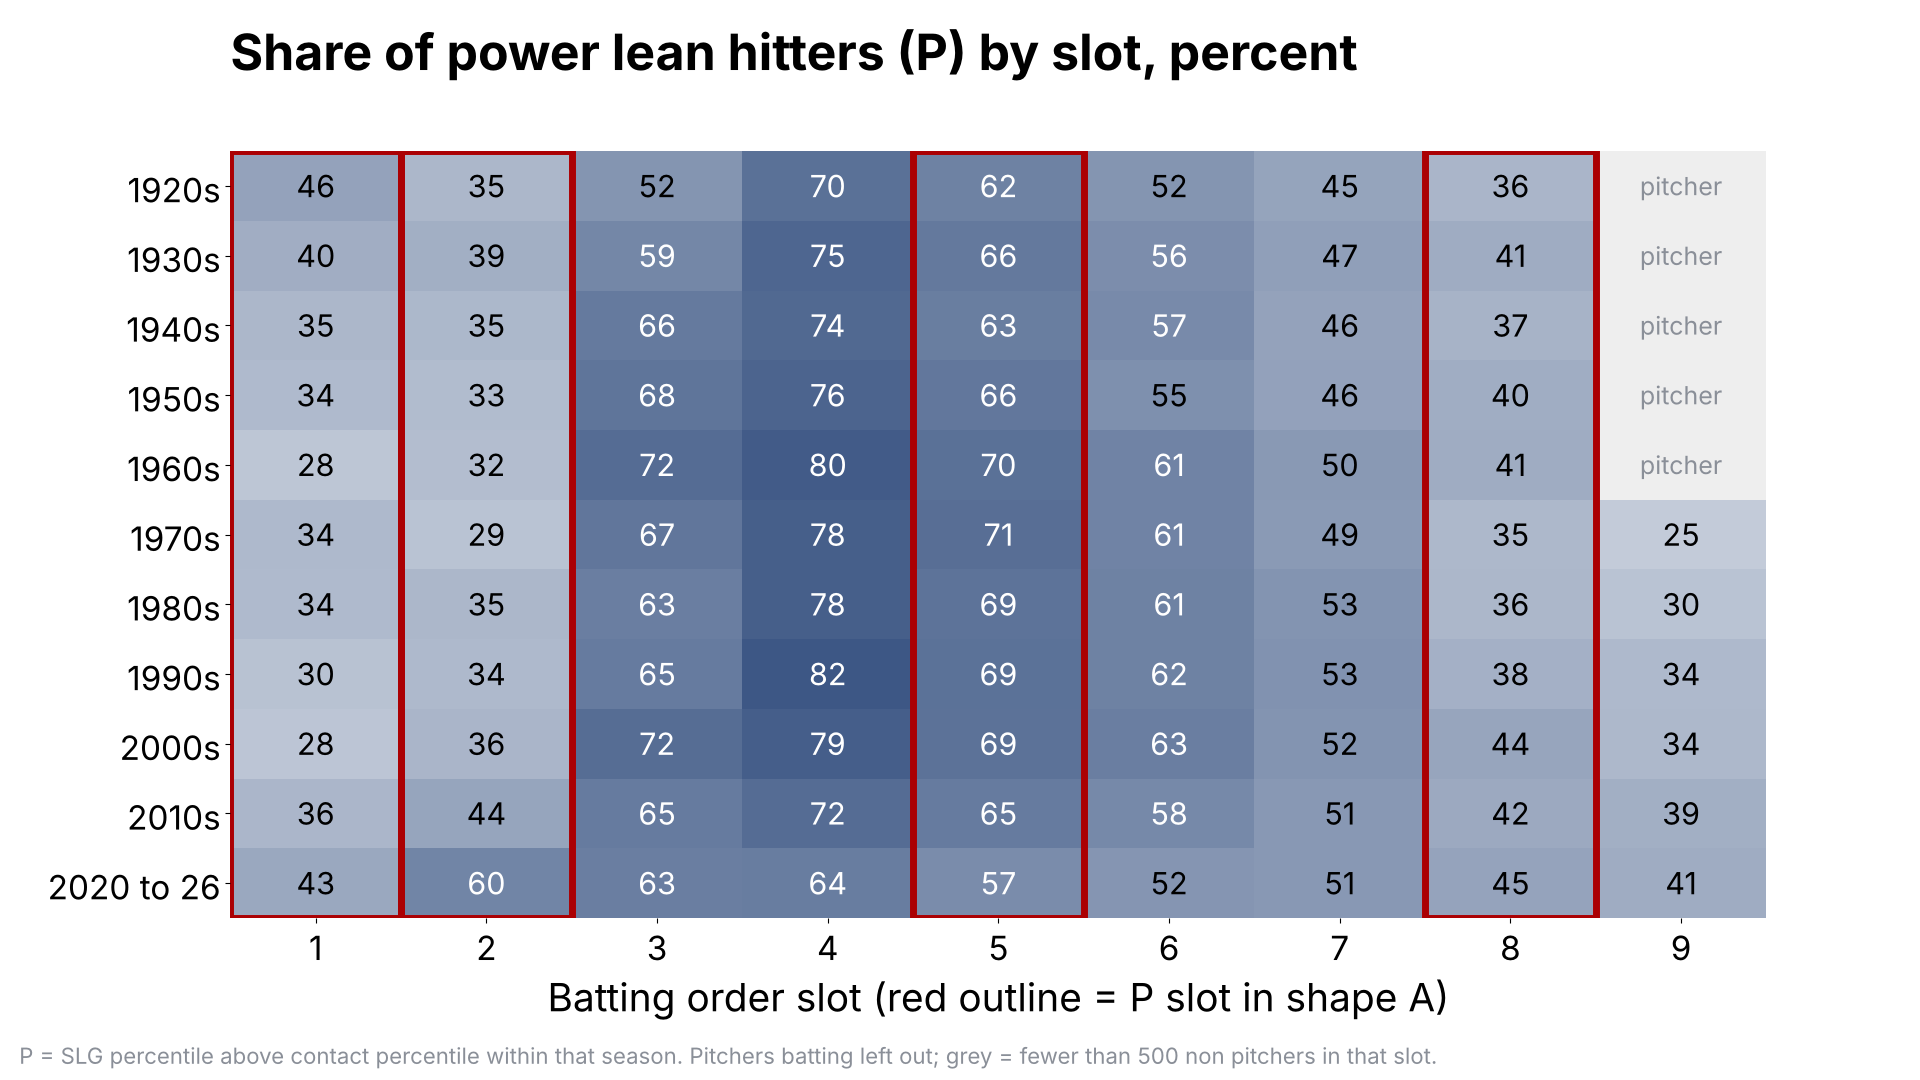
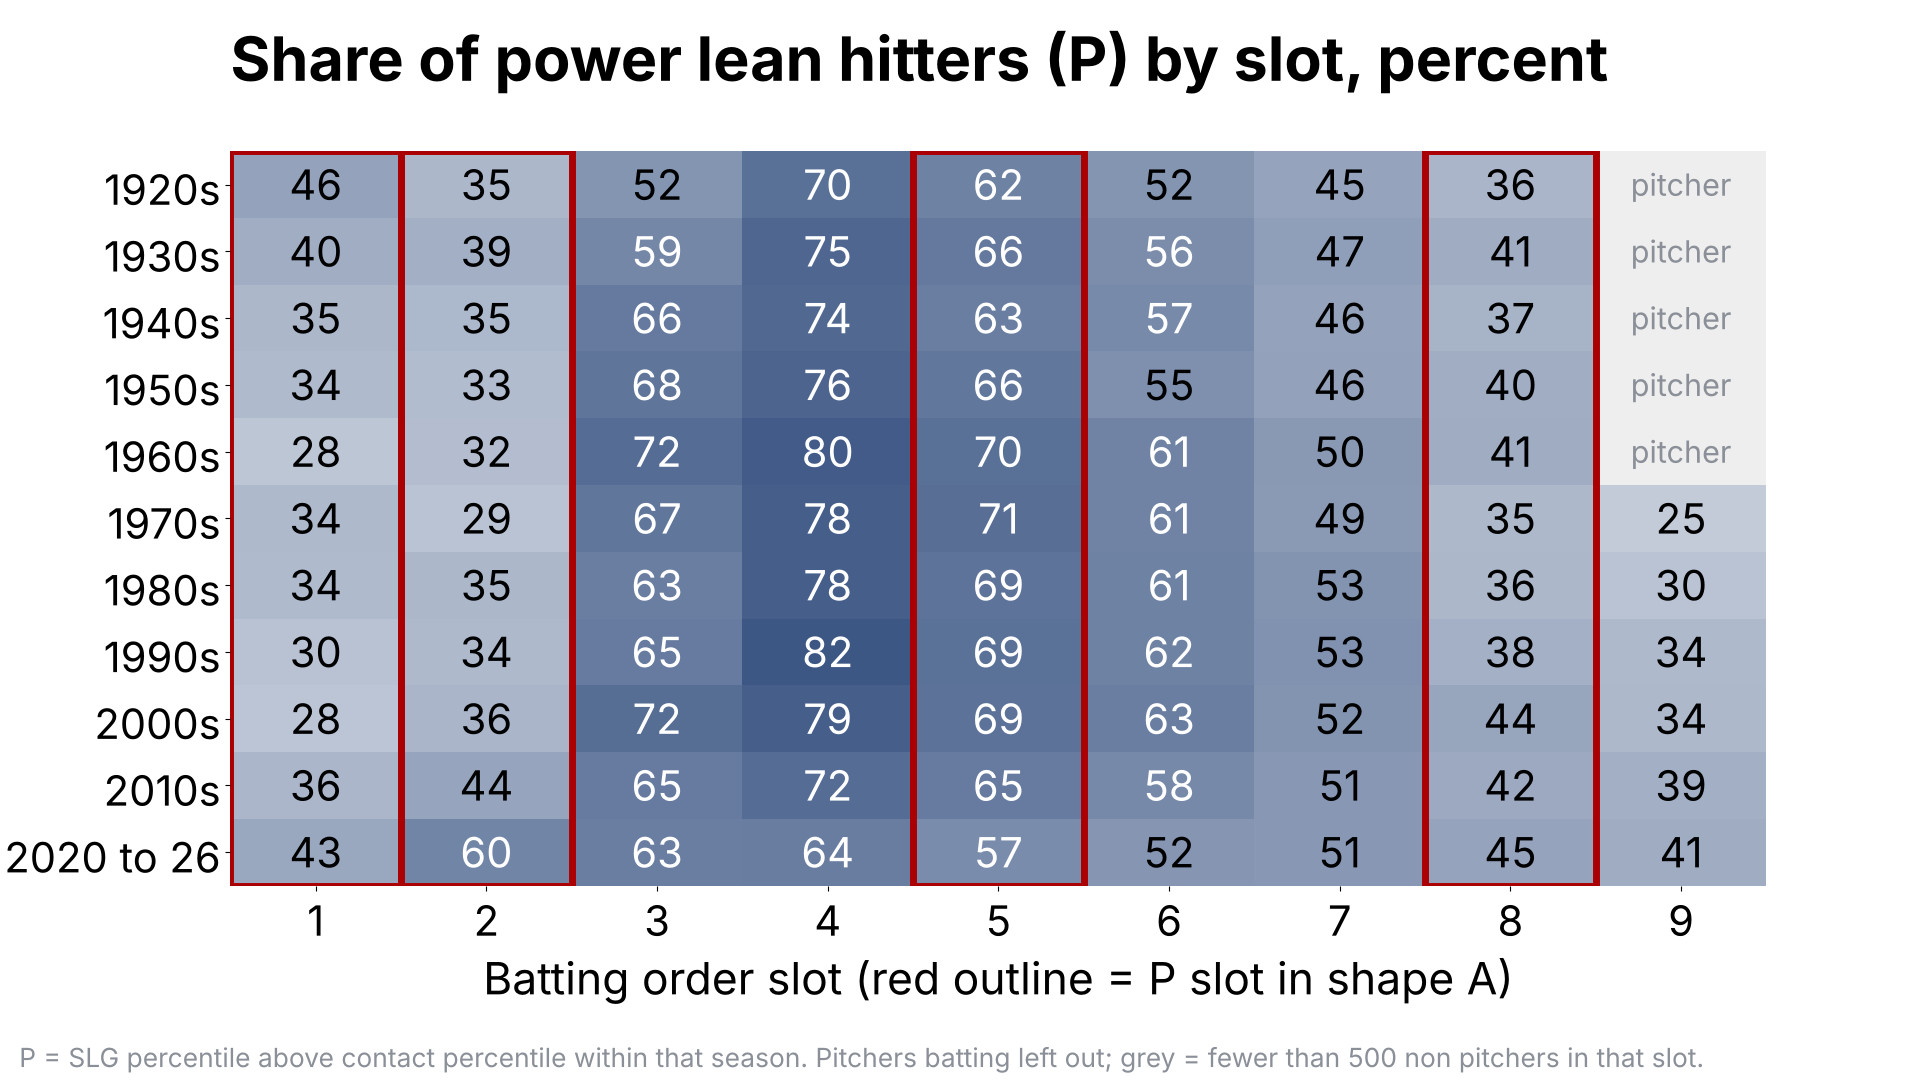
Finalize charts for phone readability, add rank table, checklist and reproducibility results
Claude-Session: https://claude.ai/code/session_01MoaZPH74CYULwaaTuVzYnt

diff --git a/Nationals/Lineup Study/scripts/09_report.py b/Nationals/Lineup Study/scripts/09_report.py
@@ -25,8 +25,8 @@ SHAPES = {"A": "PPCCPCCPC", "B": "PCPCPCCPC", "C": "CPCPCCPCP"}
 ERAS = ["Pre DH 1926 to 1972", "AL DH 1973 to 2021", "NL non DH 1973 to 2021", "Universal DH 2022 to 2026"]
 RECALC = Path("/root/.claude/skills/synced/ad1eab3c-92fc-4b58-a820-0eb12a50d243_a877aaed-fea2-4a65-ae0c-016ae19c1431/xlsx/scripts/recalc.py")
 
-plt.rcParams.update({"font.size": 24, "axes.titlesize": 34, "axes.labelsize": 28, "xtick.labelsize": 24,
-                     "ytick.labelsize": 24, "legend.fontsize": 22, "axes.spines.top": False, "axes.spines.right": False,
+plt.rcParams.update({"font.size": 30, "axes.titlesize": 40, "axes.labelsize": 32, "xtick.labelsize": 30,
+                     "ytick.labelsize": 30, "legend.fontsize": 28, "axes.spines.top": False, "axes.spines.right": False,
                      "figure.facecolor": "white", "axes.facecolor": "white", "savefig.facecolor": "white"})
 
 
@@ -46,25 +46,25 @@ def fig():
 
 
 def foot(f, text):
-    f.text(0.01, 0.015, text, fontsize=16, color=GREY)
+    f.text(0.01, 0.012, text, fontsize=19, color=GREY)
 
 
 def chart_a(b):
     f = fig()
-    ax = f.add_axes([0.09, 0.14, 0.62, 0.72])
+    ax = f.add_axes([0.09, 0.18, 0.56, 0.68])
     order = ["0 to 1", "2", "3", "4", "5+"]
     styles = [(ERAS[0], NAVY, "o", "-"), (ERAS[1], "#3F6DB5", "s", "-"), (ERAS[2], "#7FA3D9", "^", "-"),
               (ERAS[3], GREY, "D", "-"), ("2026", RED, "o", "-")]
     for g, c, m, ls in styles:
         x = b[b.group == g].set_index("bucket").reindex(order)
         lw = 6 if g == "2026" else 4
-        ax.plot(range(5), x.rot, color=c, marker=m, ms=16, lw=lw, ls=ls, label=g)
+        ax.plot(range(5), x.rot, color=c, marker=m, ms=16, lw=lw, ls=ls, label=g.replace("non DH", "no DH"))
     ax.axhline(0, color="black", lw=1.5)
     ax.set_xticks(range(5), ["0 to 1", "2", "3", "4", "5 or more"])
     ax.set_xlabel("Slots that differ from shape A (P P C C P C C P C)")
     ax.set_ylabel("Runs over talent per game")
-    ax.legend(loc="center left", bbox_to_anchor=(1.02, 0.5), frameon=False)
-    f.suptitle("Lineups closest to shape A scored more only in 2026", x=0.09, ha="left", fontsize=36, fontweight="bold")
+    ax.legend(loc="center left", bbox_to_anchor=(1.02, 0.5), frameon=False, fontsize=26)
+    f.suptitle("Lineups closest to shape A scored more only in 2026", x=0.09, ha="left", fontsize=44, fontweight="bold")
     foot(f, "Runs over talent = actual runs minus a within season model of runs on lineup talent, opposing starter, opponent runs allowed, home and park.")
     f.savefig(OUT / "chart_a_runs_over_talent_by_distance.png")
     plt.close(f)
@@ -74,7 +74,7 @@ def chart_b(o, s26):
     d = o[(o.test == "oos_decade") & (o["shape"] == "A")].copy()
     comb = o[(o.test == "oos_pooled") & (o["shape"] == "A")].iloc[0]
     f = fig()
-    ax = f.add_axes([0.09, 0.17, 0.88, 0.69])
+    ax = f.add_axes([0.11, 0.17, 0.86, 0.69])
     x = np.arange(len(d))
     v = -d.slope * 162
     se162 = d.se * 162
@@ -90,11 +90,12 @@ def chart_b(o, s26):
     labels = [g.replace("2020s", "2020\nto 2025") for g in d.group] + ["2026"]
     ax.set_xticks(list(x) + [xr], labels)
     ax.set_ylim(-12, 28)
-    ax.set_ylabel("Runs gained per 162 games\nper slot closer to A")
-    ax.text(xr - 0.25, v26, "the season\nA was\npicked in", color=RED, ha="right", va="center", fontsize=22)
-    ax.text(-0.3, 22, f"1926 to 2025 pooled: {abs(comb.slope * 162):.2f} runs per 162 per slot (shaded band: 95% interval)", color=NAVY, fontsize=22)
-    f.suptitle("Out of sample, shape A is worth nothing in every decade", x=0.09, ha="left", fontsize=36, fontweight="bold")
-    foot(f, "Above zero = lineups closer to shape A scored more than talent predicts. Thick bars: plus or minus 1 SE; thin bars: 95% interval. SE clustered by team season.")
+    ax.set_ylabel("Runs per 162, per slot closer to A")
+    ax.tick_params(axis="x", labelsize=26)
+    ax.text(xr - 0.25, v26, "the season\nA was\npicked in", color=RED, ha="right", va="center", fontsize=28)
+    ax.text(-0.3, 22, f"1926 to 2025 pooled: {abs(comb.slope * 162):.2f} runs per 162 per slot", color=NAVY, fontsize=28)
+    f.suptitle("Out of sample, shape A is worth nothing", x=0.11, ha="left", fontsize=44, fontweight="bold")
+    foot(f, "Above zero = closer to A scored more than talent predicts. Thick bars: 1 SE. Thin bars and band: 95% interval, clustered by team season.")
     f.savefig(OUT / "chart_b_shapeA_slope_by_decade.png")
     plt.close(f)
 
@@ -104,14 +105,14 @@ def chart_c(tr):
     tr.loc[tr.lineups * (1 - tr.x_share) < 500, "p_share"] = np.nan
     p = tr.pivot(index="decade", columns="slot", values="p_share") * 100
     f = fig()
-    ax = f.add_axes([0.12, 0.15, 0.80, 0.71])
+    ax = f.add_axes([0.12, 0.18, 0.80, 0.68])
     cmap = LinearSegmentedColormap.from_list("nav", ["#FFFFFF", NAVY])
     cmap.set_bad("#EEEEEE")
     ax.imshow(np.ma.masked_invalid(p.values), cmap=cmap, vmin=0, vmax=100, aspect="auto")
     for i in range(p.shape[0]):
         for j in range(p.shape[1]):
             v = p.values[i, j]
-            ax.text(j, i, "pitcher" if np.isnan(v) else f"{v:.0f}", ha="center", va="center", fontsize=22 if not np.isnan(v) else 18,
+            ax.text(j, i, "pitcher" if np.isnan(v) else f"{v:.0f}", ha="center", va="center", fontsize=30 if not np.isnan(v) else 22,
                     color=GREY if np.isnan(v) else ("white" if v > 55 else "black"))
     for j, c in enumerate(SHAPES["A"]):
         if c == "P":
@@ -120,7 +121,7 @@ def chart_c(tr):
     ax.set_yticks(range(p.shape[0]), [d.replace("2020s", "2020 to 26") for d in p.index])
     ax.set_xlabel("Batting order slot (red outline = P slot in shape A)")
     ax.spines[:].set_visible(False)
-    f.suptitle("Share of power lean hitters (P) by slot, percent", x=0.12, ha="left", fontsize=36, fontweight="bold")
+    f.suptitle("Share of power lean hitters (P) by slot, percent", x=0.12, ha="left", fontsize=44, fontweight="bold")
     foot(f, "P = SLG percentile above contact percentile within that season. Pitchers batting left out; grey = fewer than 500 non pitchers in that slot.")
     f.savefig(OUT / "chart_c_power_share_heatmap.png")
     plt.close(f)
@@ -141,23 +142,23 @@ def chart_d(mk, fe):
     ax.errorbar(x - w / 2, ev, yerr=1.96 * es, fmt="none", ecolor="black", elinewidth=3, capsize=10)
     ax.bar(x + w / 2, mv, w, color=RED, label="Markov model: pure batting order effect per slot moved to A")
     for xi, v, e in zip(x - w / 2, ev, es):
-        ax.text(xi + 0.03, v + 1.96 * e + 0.4 if v >= 0 else 1.96 * e + 0.4, f"{abs(v):.1f}" if abs(v) >= 0.05 else "0.0", ha="left", va="bottom", fontsize=28, color=NAVY, fontweight="bold")
+        ax.text(xi + 0.03, v + 1.96 * e + 0.4 if v >= 0 else 1.96 * e + 0.4, f"{abs(v):.1f}" if abs(v) >= 0.05 else "0.0", ha="left", va="bottom", fontsize=34, color=NAVY, fontweight="bold")
     for xi, v in zip(x + w / 2, mv):
-        ax.text(xi, v - 0.5, f"{abs(v):.2f} {'lost' if v < 0 else 'gained'}", ha="center", va="top", fontsize=26, color=RED, fontweight="bold")
+        ax.text(xi, v - 0.5, f"{abs(v):.2f} {'lost' if v < 0 else 'gained'}", ha="center", va="top", fontsize=32, color=RED, fontweight="bold")
     ax.axhline(0, color="black", lw=1.5)
     ax.set_ylim(-4, 27)
     ax.set_xticks(x, labels)
     ax.set_ylabel("Runs gained per 162 games, per slot")
     ax.legend(loc="upper right", frameon=False)
-    f.suptitle("Batting order alone is worth a fraction of a run per slot", x=0.10, ha="left", fontsize=36, fontweight="bold")
-    foot(f, "Observed: 95% interval, SE clustered by team season; history uses all 1926 to 2025 lineups. Markov: all 2026 lineups and a 50,000 lineup sample, scaled to actual run levels.")
+    f.suptitle("Batting order alone is worth a fraction of a run per slot", x=0.10, ha="left", fontsize=44, fontweight="bold")
+    foot(f, "Observed: 95% interval, SE clustered by team season, all lineups. Markov: all 2026 lineups and 50,000 sampled, scaled to actual runs.")
     f.savefig(OUT / "chart_d_empirical_vs_markov.png")
     plt.close(f)
 
 
 def chart_e(null, perm):
     f = fig()
-    ax = f.add_axes([0.09, 0.15, 0.88, 0.69])
+    ax = f.add_axes([0.09, 0.18, 0.88, 0.66])
     ax.hist(-null.best_slope * 162, bins=40, color=NAVY, alpha=0.85)
     rb, ra = -perm["real_best_slope"] * 162, -perm["real_slope_A"] * 162
     ax.axvline(rb, color=RED, lw=6)
@@ -165,12 +166,12 @@ def chart_e(null, perm):
     top = ax.get_ylim()[1] * 1.3
     ax.set_ylim(0, top)
     box = dict(facecolor="white", edgecolor="none", alpha=0.9)
-    ax.text(rb + 0.3, top * 0.98, f"real 2026 best of 512\n{rb:.1f} runs per 162", color=RED, fontsize=22, va="top", ha="left", bbox=box)
-    ax.text(ra - 0.3, top * 0.98, f"shape A\n{ra:.1f} runs per 162", color=RED, fontsize=22, va="top", ha="right", bbox=box)
+    ax.text(rb + 0.3, top * 0.98, f"real 2026 best of 512\n{rb:.1f} runs per 162", color=RED, fontsize=28, va="top", ha="left", bbox=box)
+    ax.text(ra - 0.3, top * 0.98, f"shape A\n{ra:.1f} runs per 162", color=RED, fontsize=28, va="top", ha="right", bbox=box)
     ax.set_xlabel("Best shape in each shuffle: runs gained per 162 per slot closer to it")
     ax.set_ylabel("Shuffles")
     pv = perm["p_value_best"]
-    f.suptitle(f"Shuffled tags find a 2026 winner this strong {pv:.0%} of the time", x=0.09, ha="left", fontsize=36, fontweight="bold")
+    f.suptitle(f"Chance finds a 2026 winner this strong {pv:.0%} of the time", x=0.05, ha="left", fontsize=44, fontweight="bold")
     foot(f, f"{perm['n_perm']:,} shuffles of P and C tags among each 2026 team's own hitters; the best of 512 shapes is kept from each shuffle.")
     f.savefig(OUT / "chart_e_permutation_null.png")
     plt.close(f)

diff --git a/Nationals/Lineup Study/PROGRESS.md b/Nationals/Lineup Study/PROGRESS.md
@@ -33,3 +33,37 @@ Job started 2026-10-29 02:16 UTC in a cloud container.
 ## Phase 8: first version of every deliverable (done 03:23)
 
 * `09_report.py` (13 s): workbook with 9 tabs, 28,386 formulas, 0 errors after LibreOffice recalculation; 5 charts; REPORT.md; SLIDES.md; CHECKS.md (10 of 10 second way checks agree).
+
+## Phase 7: nice to have (done 03:30)
+
+* Handedness: count of adjacent same handed pairs (Lahman `bats`, 2026 from the feed) added as a control. Shape A's slope does not move (1926 to 2025: 0.0002 with or without it; 2026: 0.0816 vs 0.0815 runs per game per slot). Each same handed pair is worth 0.0023 runs per game (SE 0.0026). Table `out/tables/handedness.csv`.
+* Leadoff and number 2 profiles by decade (OBP, SLG, K%, P share, each against all starters): `out/tables/leadoff_two_profiles.csv`. Number 2 hitters went from a 29% to 44% P share (1920s to 2010s) to 60% in 2020 to 2026, with SLG 10% above the average starter.
+* Interactive page: `out/interactive_charts.html` (Plotly 2.35.2 inlined, works offline; checked in Chromium at desktop and phone width with no script errors).
+* Workbook gained a "Rigor Tests" tab and a "Phase 7 Extras" tab beyond the nine requested.
+
+## Reproducibility check (03:31 to 03:42)
+
+* `RUN_ALL.sh --fresh` in a clean copy (sharing `raw/`) ran all nine scripts in 10 minutes 46 seconds with no errors. Headline numbers, rigor numbers, VALIDATION.md, CHECKS.md and eight result tables were identical to the committed run (largest numeric difference 0).
+
+## Phase 9 checklist
+
+| Item | Status | Evidence |
+|---|---|---|
+| Team season validation reported with match rate | Pass | 2,269 of 2,306 exact (98.4%), every mismatch listed in `out/VALIDATION.md` |
+| 2026 matches standings 30 of 30 | Pass, with a substitute source | Wins and losses 30 of 30 vs the final standings (Stats API blocked; Baseball Reference standings read through web search). Runs 30 of 30 vs the box score mirror's games file |
+| Baseball Reference spot check reported or block logged | Block logged, substitute run | Baseball Reference refused at the first request (`raw/source_status.txt`, `PROBLEMS.md`). Same 30 team seasons checked against Retrosheet event files: 600 of 600 games, 5,400 of 5,400 slots |
+| 2026 replication within rounding | Partly; differences explained | Games 2,429 match; lineups 4,855 vs 4,858; exact A 14 games, 11 and 3 match exactly; A −0.082 (SE 0.035) rank 3 vs −0.090 (0.032) rank 1; B −0.070 rank 12 vs −0.064 rank 22; C +0.023 rank 369 vs +0.019 rank 347. Cause and the 19 variant sweep are in `DECISIONS.md` and `out/tables/sensitivity_2026.csv` |
+| Every headline number recomputed a second way | Pass | `out/CHECKS.md`, 10 of 10 agree |
+| Workbook opens, recalculates with zero errors, every tab has data | Pass | 11 tabs, 28,653 formulas, 0 errors after LibreOffice recalculation, no empty tab (`out/tables/workbook_check.json`) |
+| All five charts exist and read clearly at phone size | Pass | `out/chart_a` to `chart_e`, 1920 by 1080, white, 30 point tick labels and 44 point titles; each checked visually |
+| PROGRESS.md ends with runtime, row counts, anything undone | Pass | below |
+
+## Final state
+
+* Total runtime: job started 02:16 UTC and finished 03:43 UTC on October 29, 2026, about 1 hour 27 minutes including source hunting. A clean rerun of the pipeline takes about 11 minutes once `raw/` is downloaded.
+* Row counts: `games` 183,752; `lineups` 367,504 (367,495 complete); `lineup_model` 367,495; `player_seasons` 88,977; `pitcher_seasons` 42,637; `pa_2026` 184,284; `markov_lineups` 54,850; `all_512_shapes` 3,584; `exact_shapes` 3,387; `team_seasons` 2,336.
+* Left undone or changed from the brief:
+  * The MLB Stats API, Savant, Retrosheet's own site, Baseball Reference and the Lahman site were unreachable. Every source came from a GitHub mirror (see `DECISIONS.md`).
+  * Savant's own xwOBA and xSLG were replaced by values computed from launch speed and angle, available for 2023 to 2026 only, so tag robustness (b) does not cover 2015 to 2022.
+  * The 2026 replication matches on games and exact shape A results but not on A's rank (3 rather than 1), for the reasons documented.
+  * The largest csv copies (`lineups.csv`, `lineup_model.csv`, `player_seasons.csv`, `games.csv`) and `lineup_model.parquet` are rebuilt by the scripts rather than committed, to keep the repository small.
